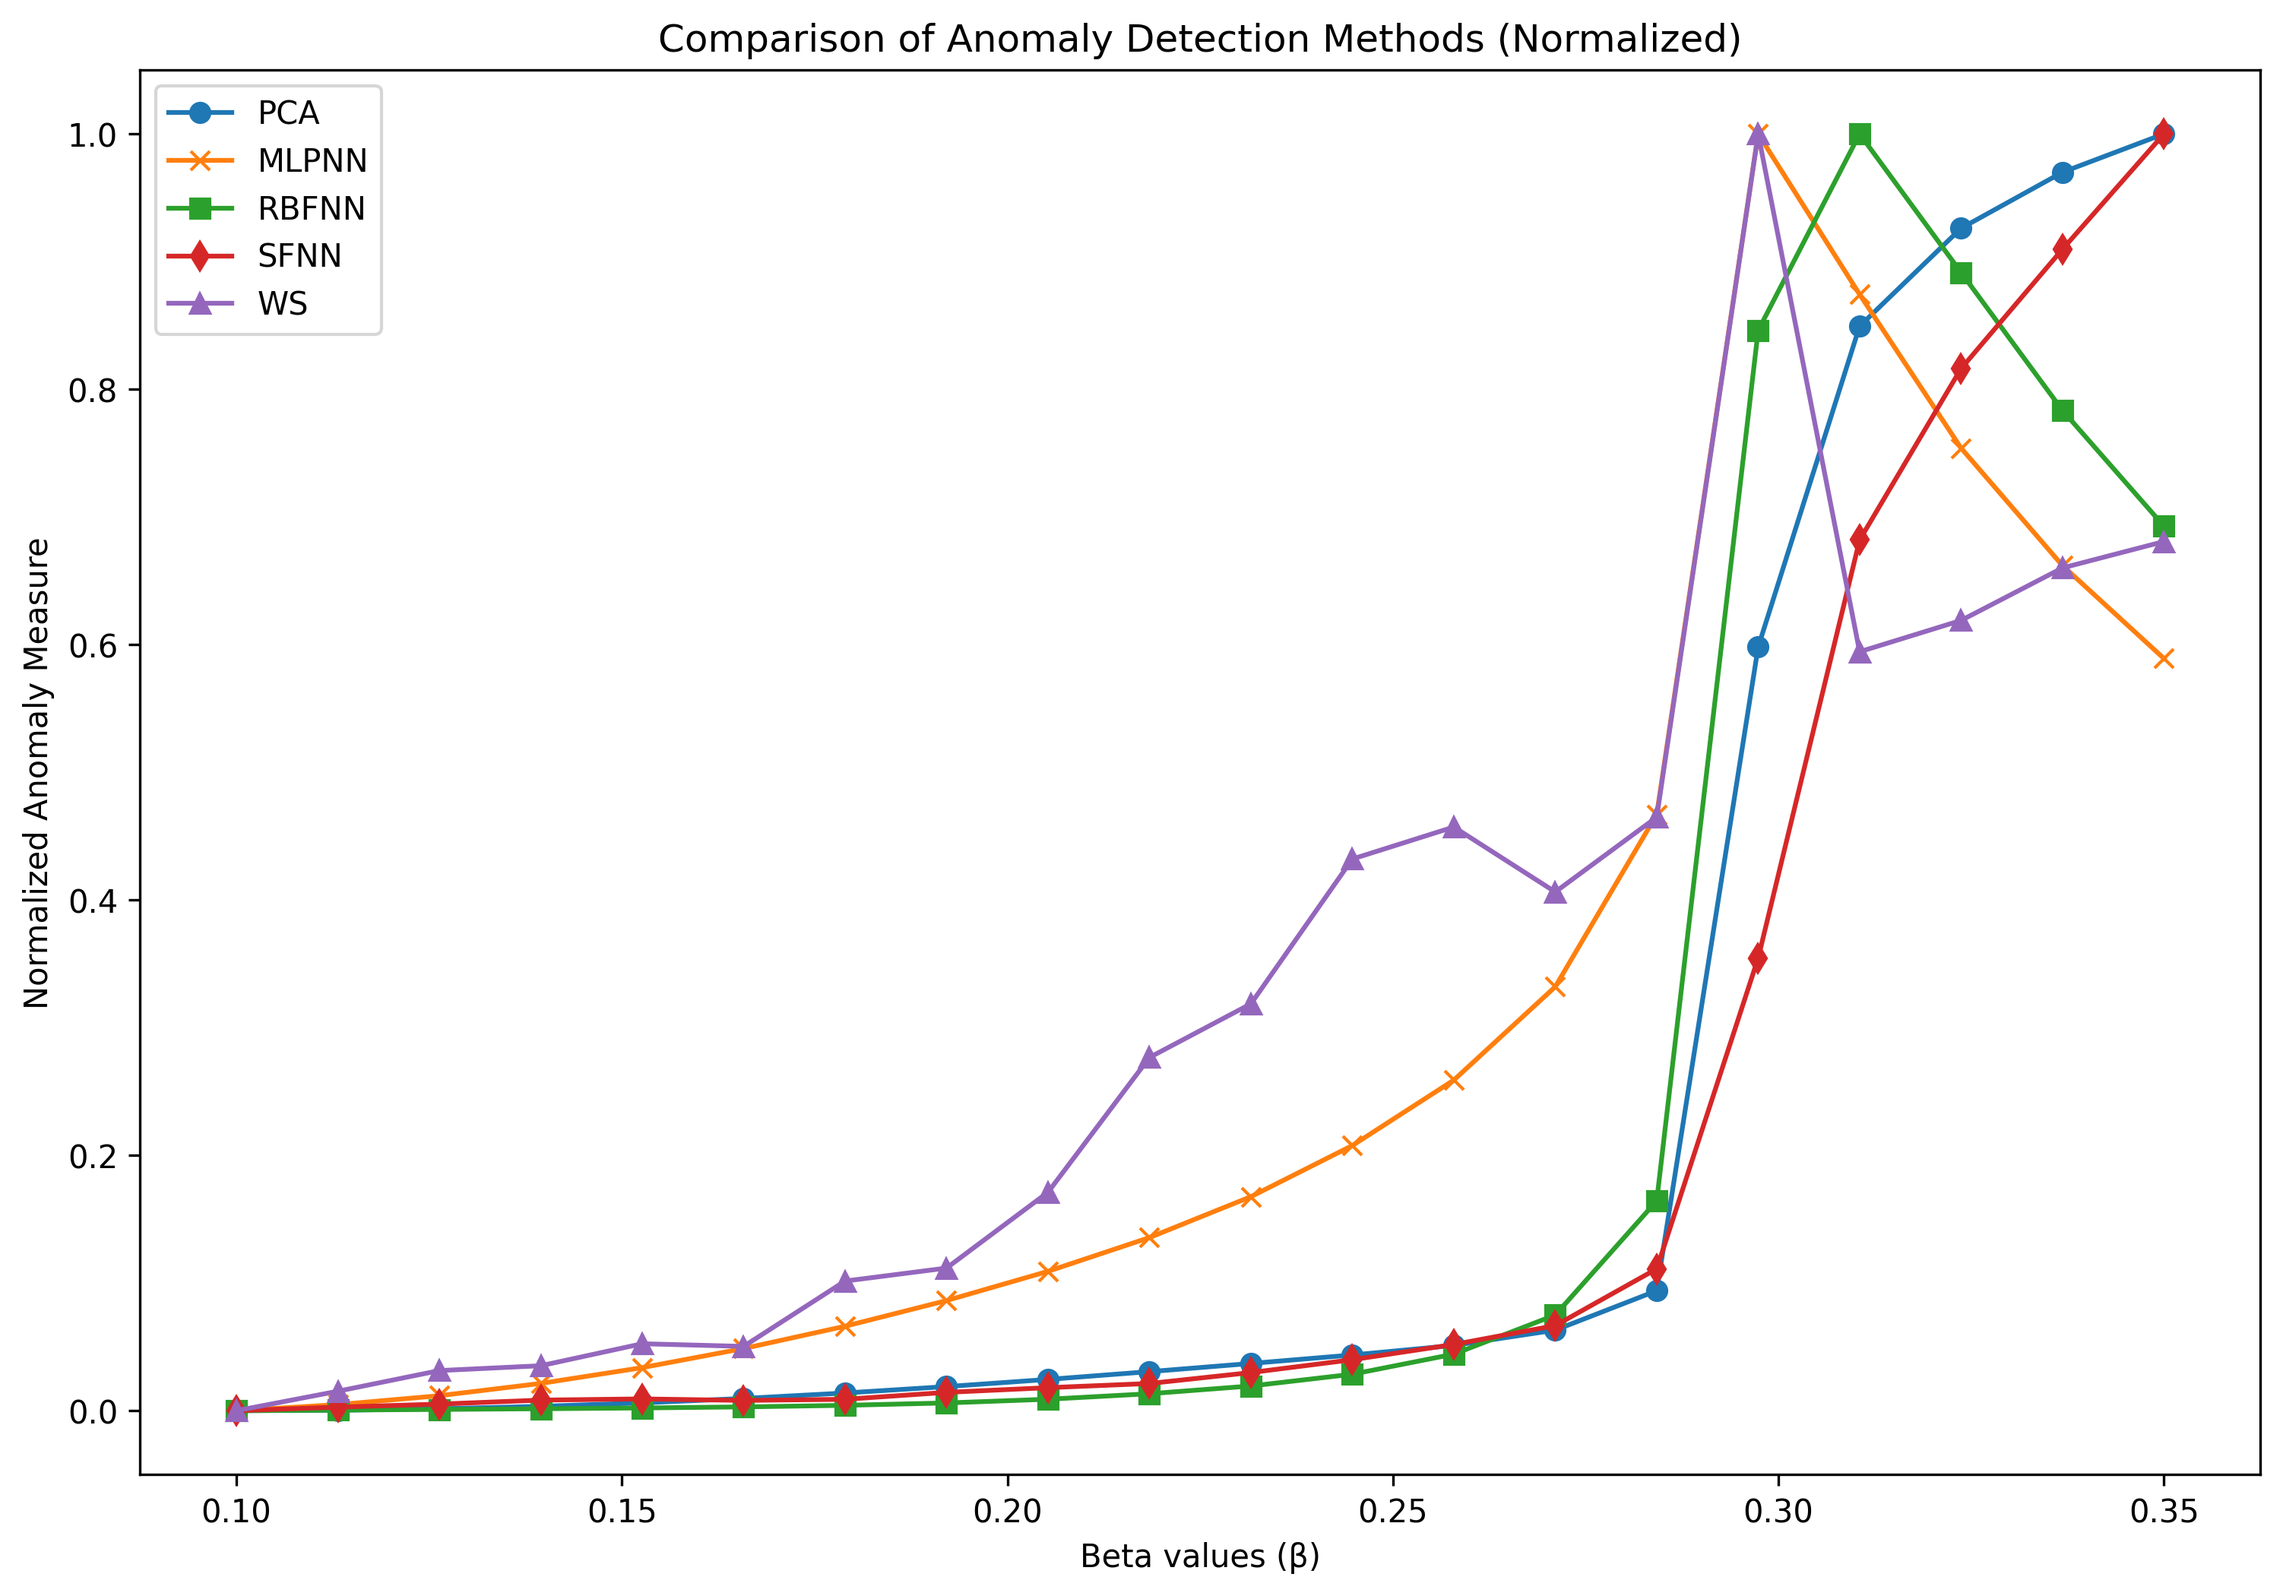
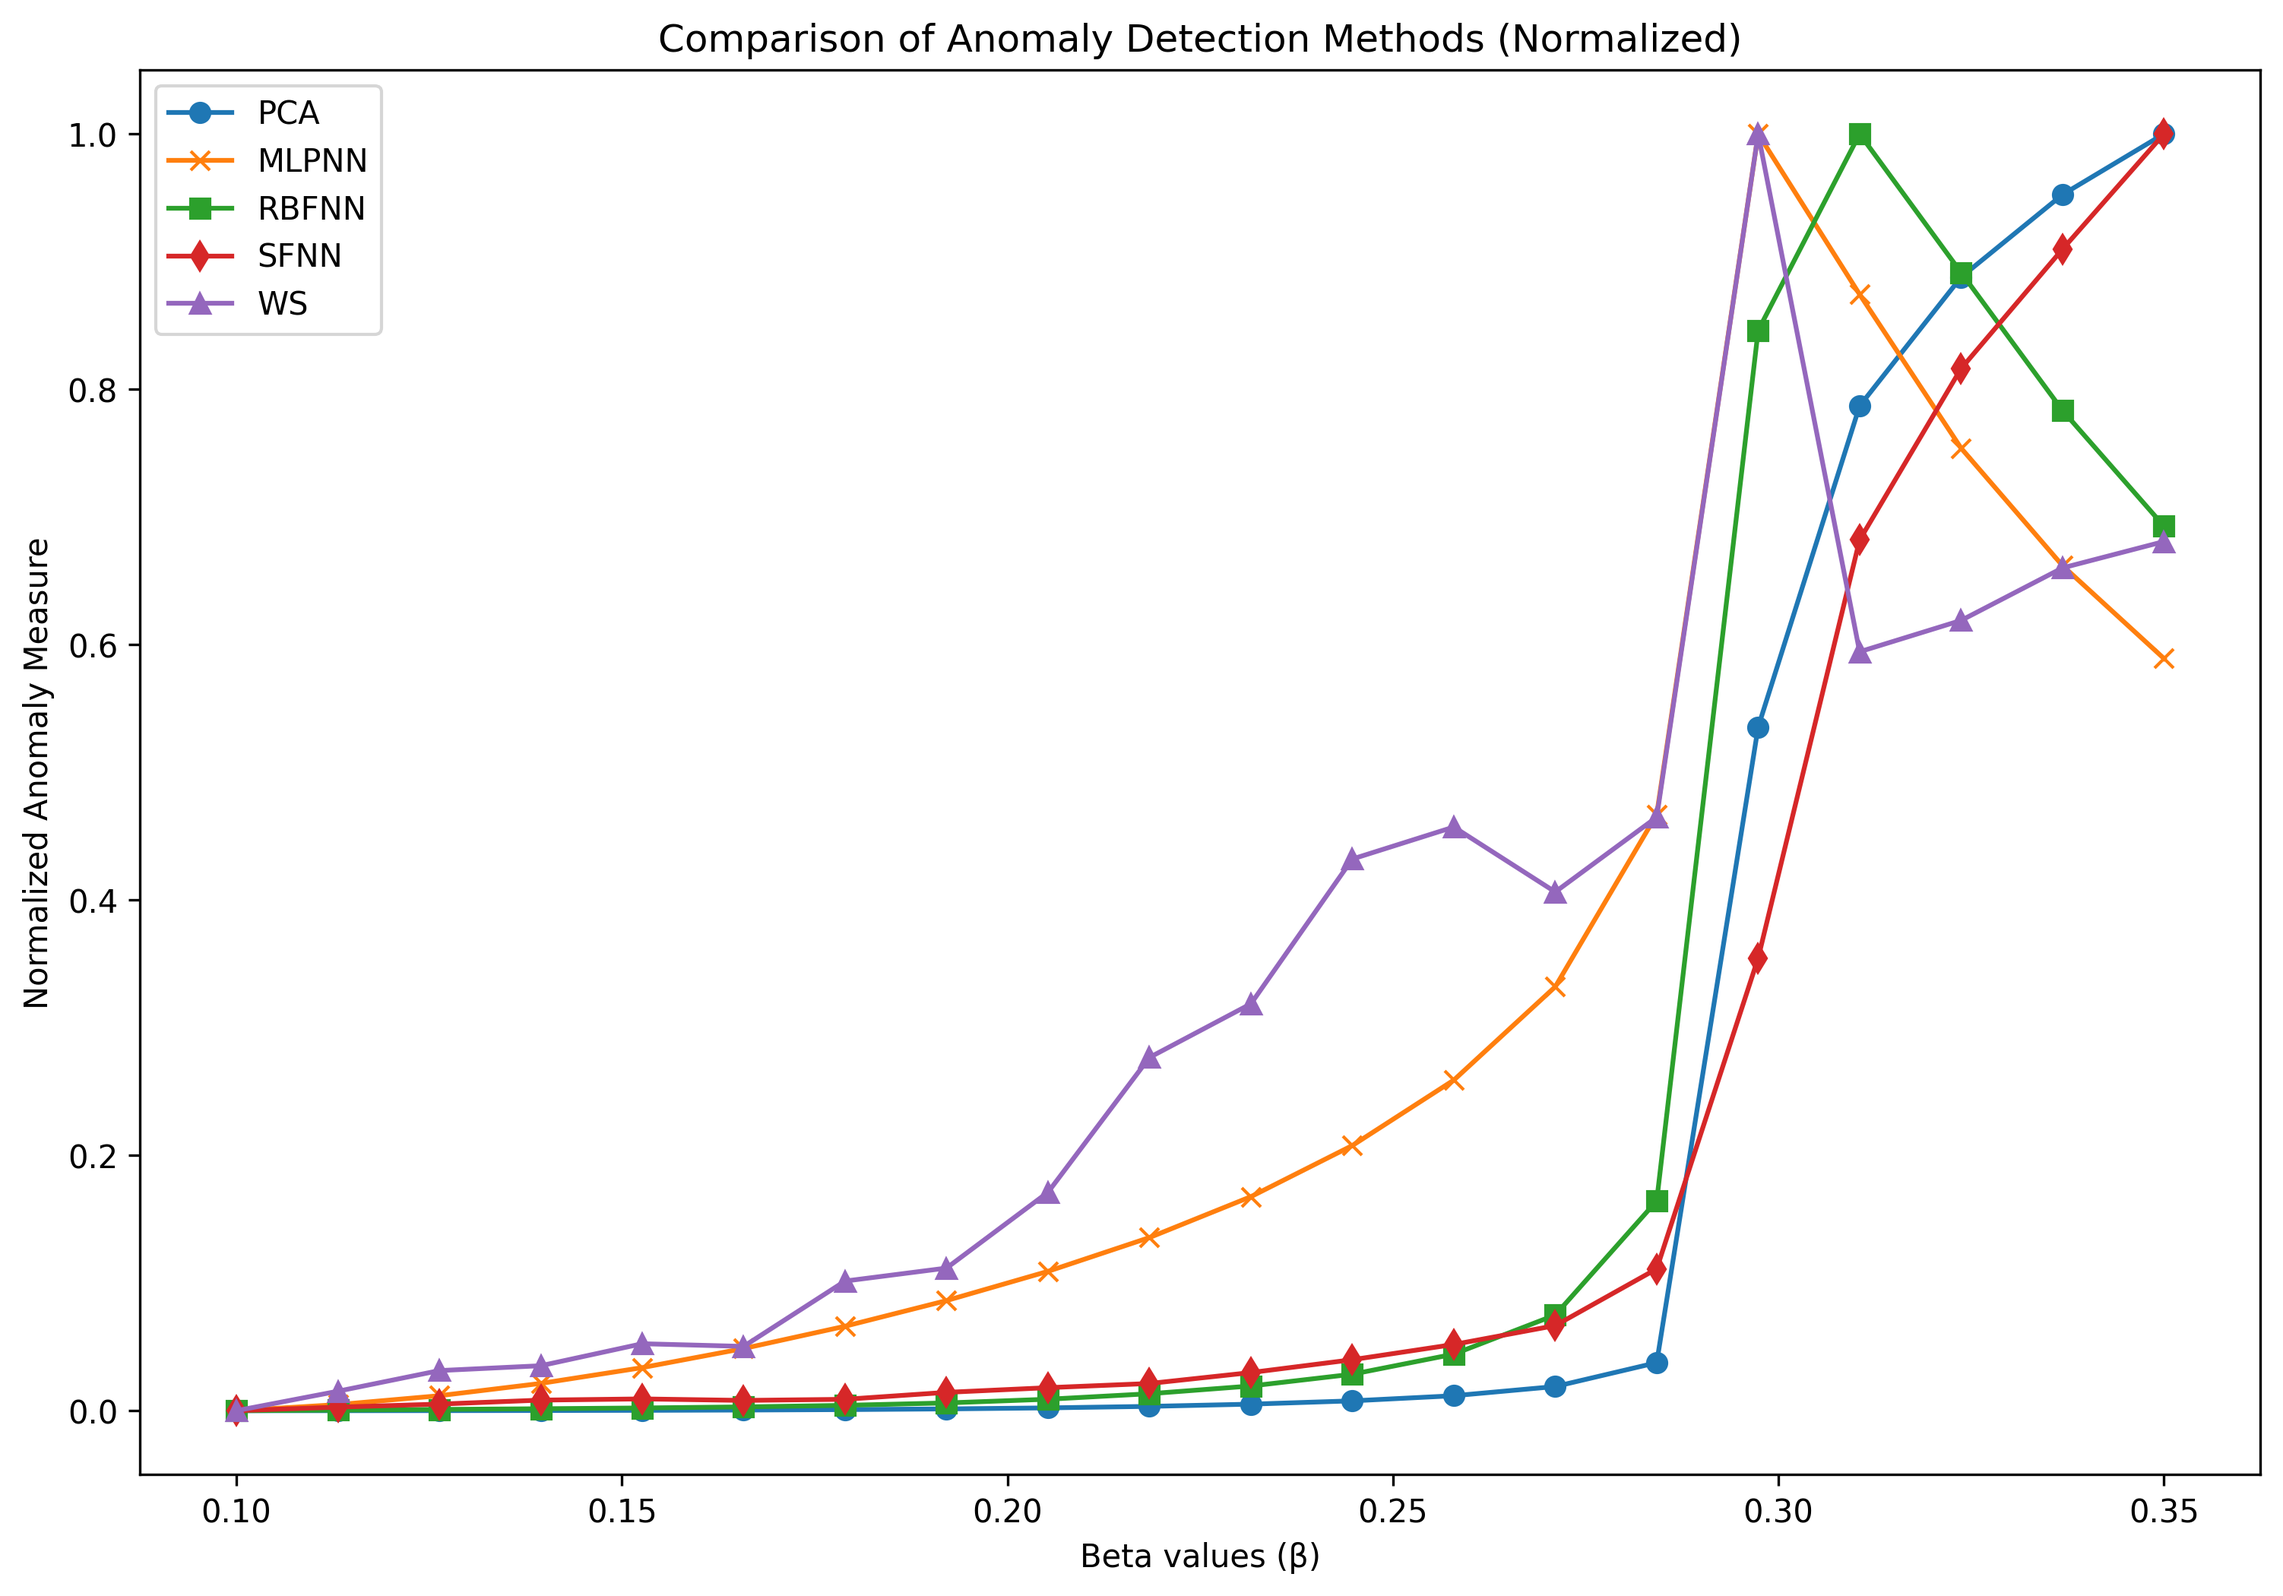
UPDATE

diff --git a/models/pca.py b/models/pca.py
@@ -1,36 +1,59 @@
 from sklearn.decomposition import PCA
 from sklearn.metrics import mean_squared_error
+import numpy as np
 
 
 
 
-def compute_pca_anomaly_scores(segmented_data, nominal_beta=0.10):
+
+
+
+
+def compute_pca_anomaly_scores(segmented_data, nominal_beta=0.10, threshold=0.95):
     """
-    Compute the anomaly scores based on the MLPNN model.
+    Compute the anomaly scores based on the PCA method.
     Args:
         segmented_data: The input data segmented into a matrix of (num_samples, sample_length).
-        nominal_beta: The nominal value of beta to be considered as a reference for the Dugging problem.
+        nominal_beta: The nominal value of beta to be considered as a reference for the Duffing problem.
+        threshold: The cumulative variance threshold for selecting principal components.
     Returns:
-        pca_anomaly_measures: The anomaly scores based on different values of beta
+        pca_anomaly_measures: The anomaly scores based on different values of beta.
     """
-    
+
     # Apply PCA to segmented data
     pca_results = {}
     for beta, segments in segmented_data.items():
-        pca = PCA(n_components=2)  # Assuming at least 2 features in reshaped data
-        pca_results[beta] = pca.fit_transform(segments)
+        # Compute the covariance matrix
+        covariance_matrix = np.cov(segments, rowvar=False)
+        eigenvalues, eigenvectors = np.linalg.eigh(covariance_matrix)
+
+        # Sort eigenvalues and eigenvectors in descending order
+        sorted_indices = np.argsort(eigenvalues)[::-1]
+        eigenvalues = eigenvalues[sorted_indices]
+        eigenvectors = eigenvectors[:, sorted_indices]
+
+        # Select q eigenvectors based on the cumulative variance threshold
+        cumulative_variance = np.cumsum(eigenvalues) / np.sum(eigenvalues)
+        q = np.searchsorted(cumulative_variance, threshold) + 1
+        selected_eigenvectors = eigenvectors[:, :q]
+
+        # Compute the normalized feature matrix
+        normalization_factors = np.sqrt(eigenvalues[:q] / np.sum(eigenvalues))
+        normalized_matrix = selected_eigenvectors * normalization_factors
+
+        pca_results[beta] = normalized_matrix
 
     # Use PCA results for anomaly detection
     pca_anomaly_measures = {}
-    for beta, transformed_segments in pca_results.items():
-        nominal_transformed = pca_results[nominal_beta]  # Nominal beta transformed segments
-        mse = mean_squared_error(nominal_transformed.flatten(), transformed_segments.flatten())
+    for beta, normalized_matrix in pca_results.items():
+        nominal_matrix = pca_results[nominal_beta]  # Nominal beta normalized matrix
+        mse = mean_squared_error(nominal_matrix.flatten(), normalized_matrix.flatten())
         pca_anomaly_measures[beta] = mse
 
     # Normalize PCA anomaly measures
     pca_anomaly_measures = {beta: value - pca_anomaly_measures[nominal_beta] for beta, value in pca_anomaly_measures.items()}
     max_pca = max(pca_anomaly_measures.values())
     pca_anomaly_measures = {beta: value / max_pca for beta, value in pca_anomaly_measures.items()}
-    
-    # return the anomaly scores
+
+    # Return the anomaly scores
     return pca_anomaly_measures

diff --git a/pipeline.py b/pipeline.py
@@ -21,7 +21,8 @@ def run_Duffing_problem_anomaly_mesure(beta_min=0.10,
                                        total_time=40,
                                        models=['PCA', 'MLPNN', 'RBFNN', 'SFNN', 'WS'],
                                        alphabet_size=8, 
-                                       D=1):
+                                       D=1,
+                                       threshold=0.95):
     """
     Run the different anomaly detection models for the Duffing problem
     Args:
@@ -36,6 +37,7 @@ def run_Duffing_problem_anomaly_mesure(beta_min=0.10,
         models (list): List of models to run.
         alphabet_size (int): The size of the alphabet used to encode the time series into different symbols.
         D (int): The order of the Markov Chain.
+        threshold (float): The cumulative variance threshold for selecting principal components.
     """
     
     # compute beta values for the experiments
@@ -50,7 +52,7 @@ def run_Duffing_problem_anomaly_mesure(beta_min=0.10,
     for model in models:
         
         if model == 'PCA':
-            pca_anomaly_measures = compute_pca_anomaly_scores(segmented_data, nominal_beta=nominal_beta)
+            pca_anomaly_measures = compute_pca_anomaly_scores(segmented_data, nominal_beta=nominal_beta, threshold=threshold)
             anomaly_mesures[model] = pca_anomaly_measures
         
         elif model == 'MLPNN':

diff --git a/main.py b/main.py
@@ -16,6 +16,7 @@ if __name__ == "__main__":
         total_time=40,          # Total duration of the time series in seconds
         models=['PCA', 'MLPNN', 'RBFNN', 'SFNN', 'WS'],  # List of models to run: ['PCA', 'MLPNN', 'RBFNN', 'SFNN', 'WS']
         alphabet_size=8,        # size of alphabet for symbolization
-        D=1                     # order of the Markov Chain
+        D=1,                    # order of the Markov Chain
+        threshold=0.95          # cumulative variance threshold for selecting principal components
     )
     
